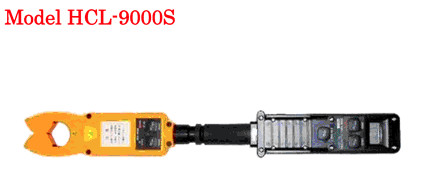
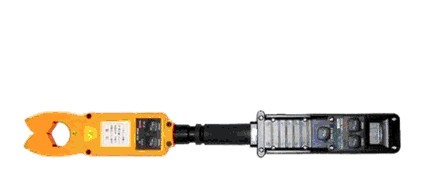
Fix gana-20042.jpg text watermark; identify as MULTI HCL-9000S
- Removed baked-in "Model HCL-9000S" red text overlay from the product
  photo (painted over with white to match the plain background — same
  product, just the watermark gone)
- Page was a bare unbranded "일반" placeholder; identified the product
  as MULTI's HCL-9000S (predecessor to their current HCL-7000DX-M per
  multimic.com), filled in 제조사/모델명/제품소개/스펙 accordingly

diff --git a/product-detail-gana-20042.html b/product-detail-gana-20042.html
@@ -2,7 +2,7 @@
 <html lang="ko">
 <head>
 <meta charset="UTF-8">
-<title>특고압전류계 — PAPORI</title>
+<title>특고압전류계 HCL-9000S — PAPORI</title>
 <meta name="viewport" content="width=device-width, initial-scale=1.0">
 <link rel="stylesheet" href="style.css">
 </head>
@@ -40,13 +40,13 @@
     </div>
 
     <div class="detail-info">
-      <div class="brand-line">일반</div>
-      <h1>특고압전류계</h1>
-      <div class="model">일반</div>
+      <div class="brand-line">MULTI</div>
+      <h1>특고압전류계 HCL-9000S</h1>
+      <div class="model">모델 HCL-9000S</div>
 
       <div class="trust-badges">
         <span class="trust-badge">계측기</span>
-        <span class="trust-badge">일반</span>
+        <span class="trust-badge">특고압HV</span>
       </div>
 
       <div class="price-box">
@@ -77,16 +77,20 @@
   <div class="tab-panel" id="panel-info">
     <div class="detail-section">
       <h3>제품 소개</h3>
-      <p>특고압전류계은(는) 일반 품목입니다. 자세한 규격·구성·납기는 견적요청 또는 고객센터를 통해 안내해드립니다.</p>
+      <p>MULTI(일본 마루치계측기) HCL-9000S는 신축식 절연봉과 클램프 센서가 결합된 특고압용 전류계입니다. 활선 상태의 특고압 전선에서 봉을 연장해 안전거리를 확보한 채 전류를 측정할 수 있습니다. 정확한 정격전압·전류 레인지 등 세부 규격은 견적요청 또는 고객센터를 통해 확인해드립니다.</p>
     </div>
   </div>
   <div class="tab-panel" id="panel-spec" style="display:none;">
     <div class="detail-section">
       <h3>제원표</h3>
       <table class="spec-table">
-        <tr><th>품목명</th><td>특고압전류계</td></tr>
-        <tr><th>분류</th><td>계측기 &gt; 일반</td></tr>
+        <tr><th>품목명</th><td>특고압전류계 HCL-9000S</td></tr>
+        <tr><th>제조사</th><td>MULTI (일본 마루치계측기)</td></tr>
+        <tr><th>모델번호</th><td>HCL-9000S</td></tr>
+        <tr><th>구조</th><td>신축식 절연봉 + 클램프 센서</td></tr>
+        <tr><th>분류</th><td>계측기 &gt; 특고압HV</td></tr>
       </table>
+      <p class="vendor-source-note">정확한 정격전압·전류 레인지 등 세부 규격은 견적요청 또는 고객센터로 문의해주세요.</p>
     </div>
   </div>
   <div class="tab-panel" id="panel-review" style="display:none;">
